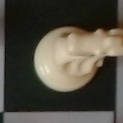
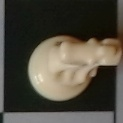
finished collecting training data for white knight

diff --git a/brain.py b/brain.py
@@ -212,7 +212,7 @@ def main():
                     square.saveImage(squares)
                 return
                 '''
-                collect2PData(board, squares, 62, 63, "black", "rook", 8, 7)
+                collect2PData(board, squares, 62, 63, "white", "knight", 8, 7)
                 #collectData(board, squares)
                 cv2.imshow("Frame", squares[22:136, 517:640])
                 if cv2.waitKey(1) & 0xFF == ord('q'):
